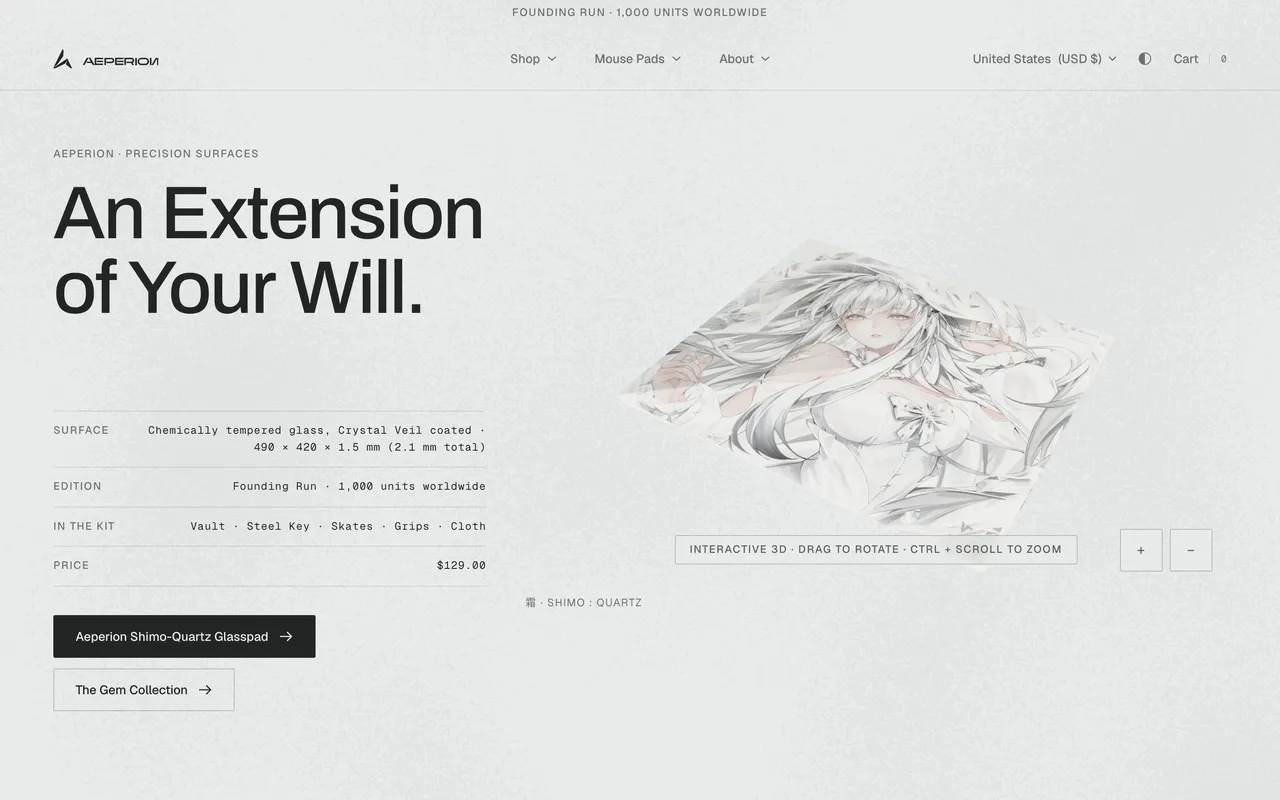
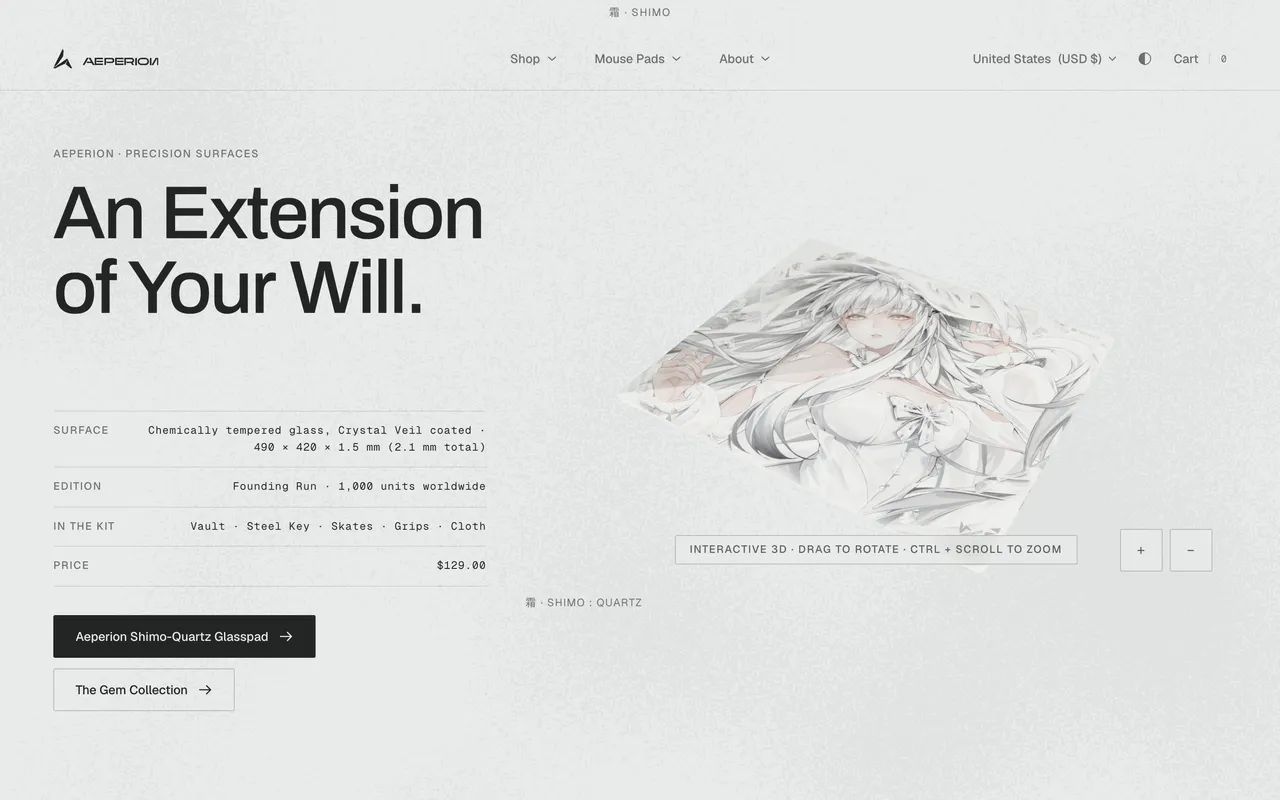
Swap the Aeperion frame with the theme
aeperion.com ships its own light/dark switcher, so the case study now shows
the storefront in whichever mode the reader is already in, rather than a
light shop sitting on dark paper.

Captured twice by driving the storefront's own mechanism — its bootstrap
reads localStorage `aep-theme` and stamps data-theme on <html>, so the
capture step sets both. Light is now set explicitly too, so the two frames
differ only by the thing under test.

The dark capture is graded onto the dark colourway rather than the existing
one. That ramp maps black to near-black ink and white to paper, which is
right for a light screenshot and turns a dark one to mud; the dark ramp runs
the other way, because on dark stock the paper is the dark end and the ink is
the bright one.

`pnpm stills` now takes an optional list of target names — a full run walks
nine live sites and takes minutes, and this only needed two of them.

diff --git a/src/data/clients.ts b/src/data/clients.ts
@@ -10,6 +10,13 @@
 
 export type Frame = {
   src: string;
+  /**
+   * Optional dark-theme capture of the same frame, graded onto the dark
+   * colourway. Only set it when the captured site has its own light/dark
+   * switcher — otherwise the frame is the same picture in both themes and a
+   * second file is dead weight.
+   */
+  srcDark?: string;
   alt: string;
   caption: string;
   width: number;
@@ -46,6 +53,7 @@ export const clients: ClientCase[] = [
     stack: ["Shopify", "Liquid", "Vanilla JS", "CSS"],
     image: {
       src: "/clients/aeperion-after.webp",
+      srcDark: "/clients/aeperion-after-dark.webp",
       alt: "The redesigned Aeperion storefront homepage",
       caption: "aeperion.com today",
       width: 1280,
